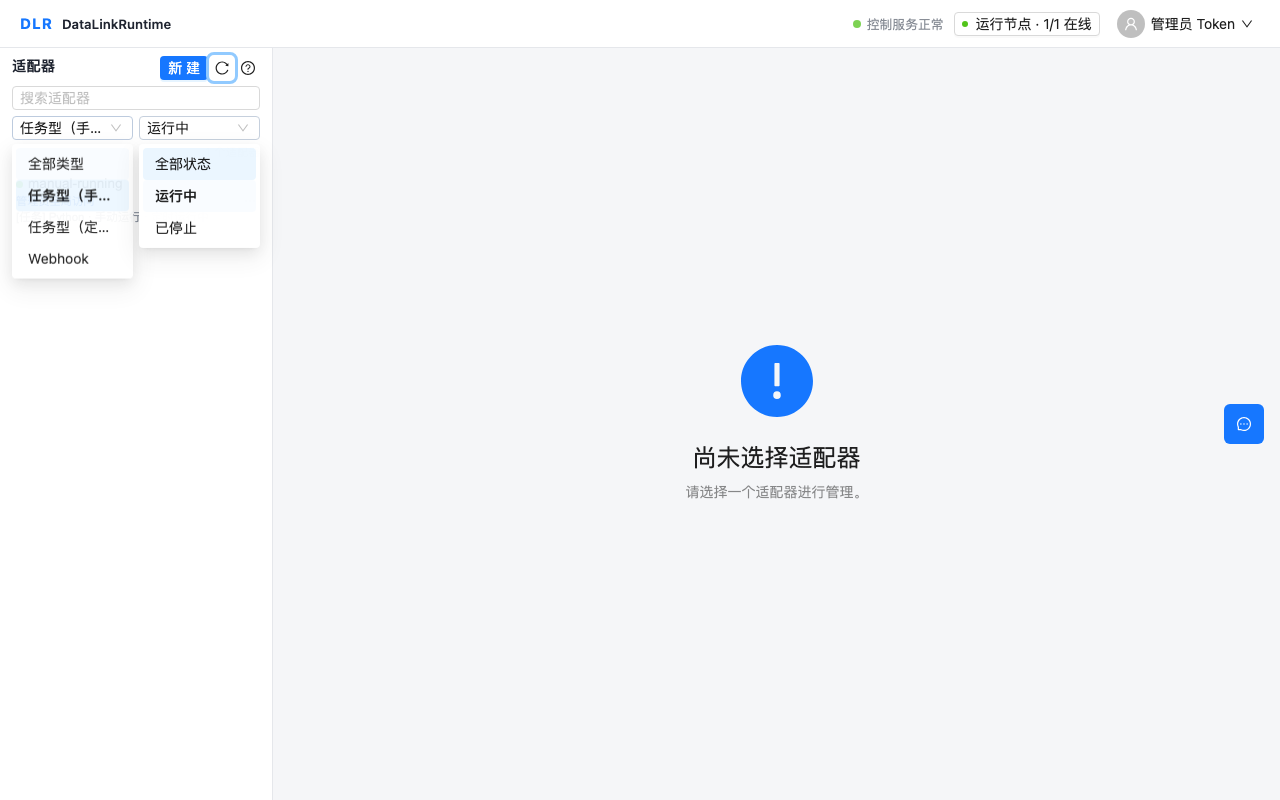
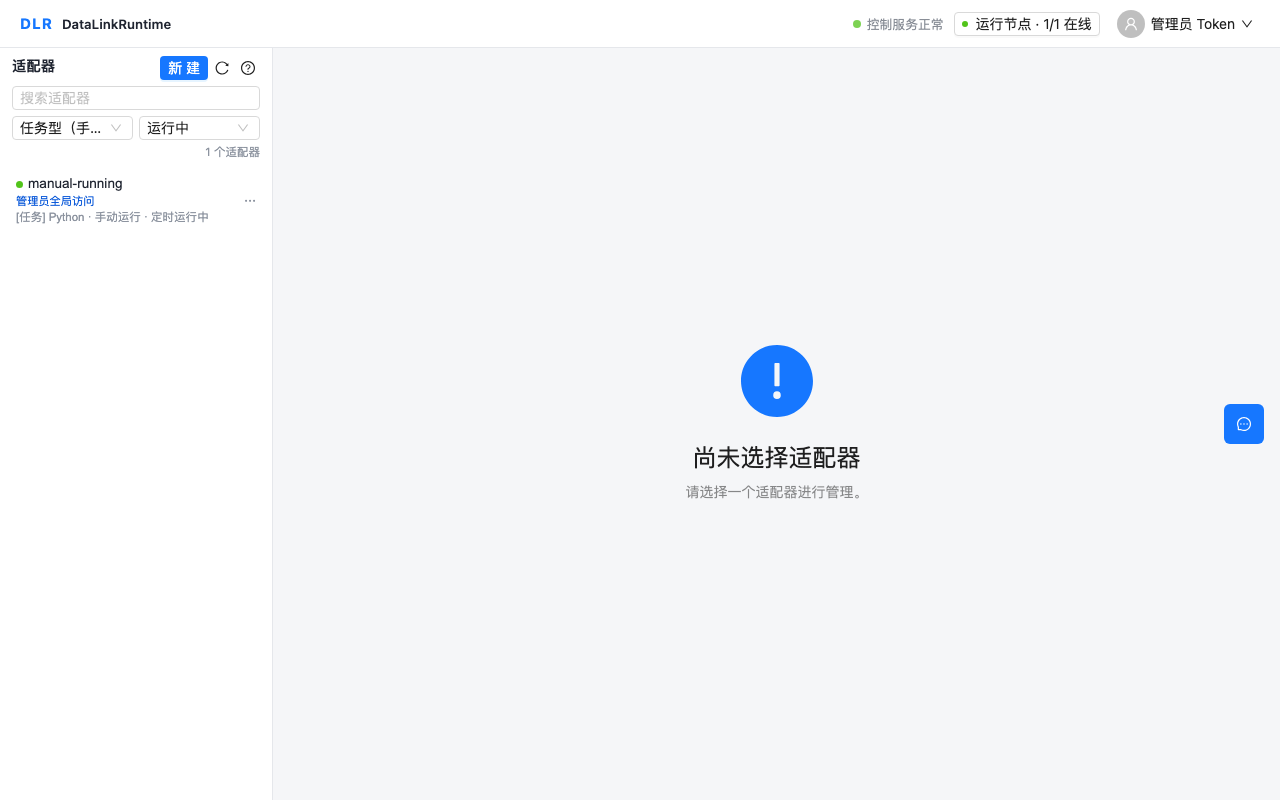
test: close catalog filters before screenshots

Changed region(s): [[0.0, 0.1875, 0.2188, 0.3438], [0.1562, 0.0625, 0.1875, 0.125]]

diff --git a/web/tests/e2e/issue117-b7-catalog.spec.ts b/web/tests/e2e/issue117-b7-catalog.spec.ts
@@ -109,6 +109,8 @@ interface CatalogRecord {
     type_count: number;
     running_count: number;
     filtered_count: number;
+    list_visible: boolean;
+    select_dropdown_count: number;
     help_visible: boolean;
     help_closed: boolean;
     created: boolean;
@@ -304,6 +306,13 @@ async function selectOption(page: Page, testId: string, option: string): Promise
   await expect(page.getByTestId(testId)).toContainText(option);
 }
 
+async function closeSelectDropdowns(page: Page): Promise<void> {
+  const openDropdowns = page.locator(".ant-select-dropdown:not(.ant-select-dropdown-hidden)");
+  await page.keyboard.press("Escape");
+  await page.getByTestId("adapter-catalog-header").locator(".catalog-title").click();
+  await expect(openDropdowns).toHaveCount(0);
+}
+
 async function runCase(page: Page, locale: Locale, width: number): Promise<void> {
   const text = labels(locale);
   const { adapterListCalls, createBodies, nonGetPaths, unknownPaths, adapters } =
@@ -330,7 +339,10 @@ async function runCase(page: Page, locale: Locale, width: number): Promise<void>
   await expect(search).toBeVisible();
   await expect(typeFilter).toBeVisible();
   await expect(statusFilter).toBeVisible();
-  await expect(page.getByTestId("show-create-form")).toBeVisible();
+  await expect(page.getByTestId("adapter-type-filter")).toContainText(text.filterTypeAll);
+  await expect(page.getByTestId("adapter-status-filter")).toContainText(text.filterStatusAll);
+  const createEntry = page.getByTestId("show-create-form");
+  await expect(createEntry).toBeVisible();
   await expect(page.getByTestId("refresh-adapters")).toHaveAttribute("aria-label", text.refresh);
   await expect(page.getByTestId("adapter-catalog-help")).toHaveAttribute("aria-label", text.help);
 
@@ -355,6 +367,13 @@ async function runCase(page: Page, locale: Locale, width: number): Promise<void>
   await refresh.focus();
   await page.keyboard.press("Enter");
   await expect.poll(() => adapterListCalls.value).toBeGreaterThan(1);
+
+  await closeSelectDropdowns(page);
+  const visibleSelectDropdowns = page.locator(".ant-select-dropdown:not(.ant-select-dropdown-hidden)");
+  const visibleItems = page.getByTestId("adapter-item");
+  await expect(visibleSelectDropdowns).toHaveCount(0);
+  await expect(visibleItems).toHaveCount(1);
+  await expect(visibleItems.first()).toBeVisible();
 
   const geometry = await page.evaluate(() => {
     const header = document.querySelector<HTMLElement>("[data-testid=adapter-catalog-header]");
@@ -387,7 +406,11 @@ async function runCase(page: Page, locale: Locale, width: number): Promise<void>
   mkdirSync(screenshotDir, { recursive: true });
   await page.screenshot({ path: resolve(screenshotDir, screenshotName), fullPage: true });
 
-  await page.getByTestId("show-create-form").click();
+  await createEntry.click();
+  await expect(page.getByTestId("new-adapter-name")).toBeVisible();
+  await expect
+    .poll(async () => (await page.getByTestId("create-adapter").innerText()).replace(/\s+/g, ""))
+    .toBe(text.create);
   await page.getByTestId("new-adapter-name").fill("created-in-batch-7");
   await page.getByTestId("new-adapter-description").fill("created fixture");
   await page.getByTestId("create-adapter").click();
@@ -426,6 +449,8 @@ async function runCase(page: Page, locale: Locale, width: number): Promise<void>
       type_count: typeCount,
       running_count: runningCount,
       filtered_count: filteredCount,
+      list_visible: true,
+      select_dropdown_count: await visibleSelectDropdowns.count(),
       help_visible: true,
       help_closed: true,
       created: true,

diff --git a/docs/evidence/issue117-b7/README.md b/docs/evidence/issue117-b7/README.md
@@ -37,8 +37,8 @@ Commands were run from `web/` unless noted:
 - Locales: `zh-CN`, `en`
 - Viewports: `1280`, `1440`, `1680`, `1920`
 - Browser: Chromium `151.0.7922.34`
-- Each record: overview count `0`; header-to-toolbar gap `0`; toolbar-to-list gap `0`; document/body `scrollWidth == innerWidth`; console/page errors empty; unknown requests empty; one existing `POST /api/adapters` create request; refresh caused repeated adapter-list GETs.
-- Screenshots are taken before the create drawer opens, so the Catalog title, controls, filtered list and compact spacing remain visible in each matrix image.
+- Each record: overview count `0`; `list_visible=true`; `select_dropdown_count=0`; header-to-toolbar gap `0`; toolbar-to-list gap `0`; document/body `scrollWidth == innerWidth`; console/page errors empty; unknown requests empty; one existing `POST /api/adapters` create request; refresh caused repeated adapter-list GETs.
+- Before every screenshot the test presses `Escape`, clicks the Catalog title, and waits for every non-hidden AntD Select dropdown to be detached/hidden. It then asserts the filtered list is visible, before capturing the Catalog title, controls, filtered list and compact spacing.
 - Fixture data and route handlers are scoped to this spec. No provider response bodies or real credentials are archived.
 
 ## AO Browser session evidence
